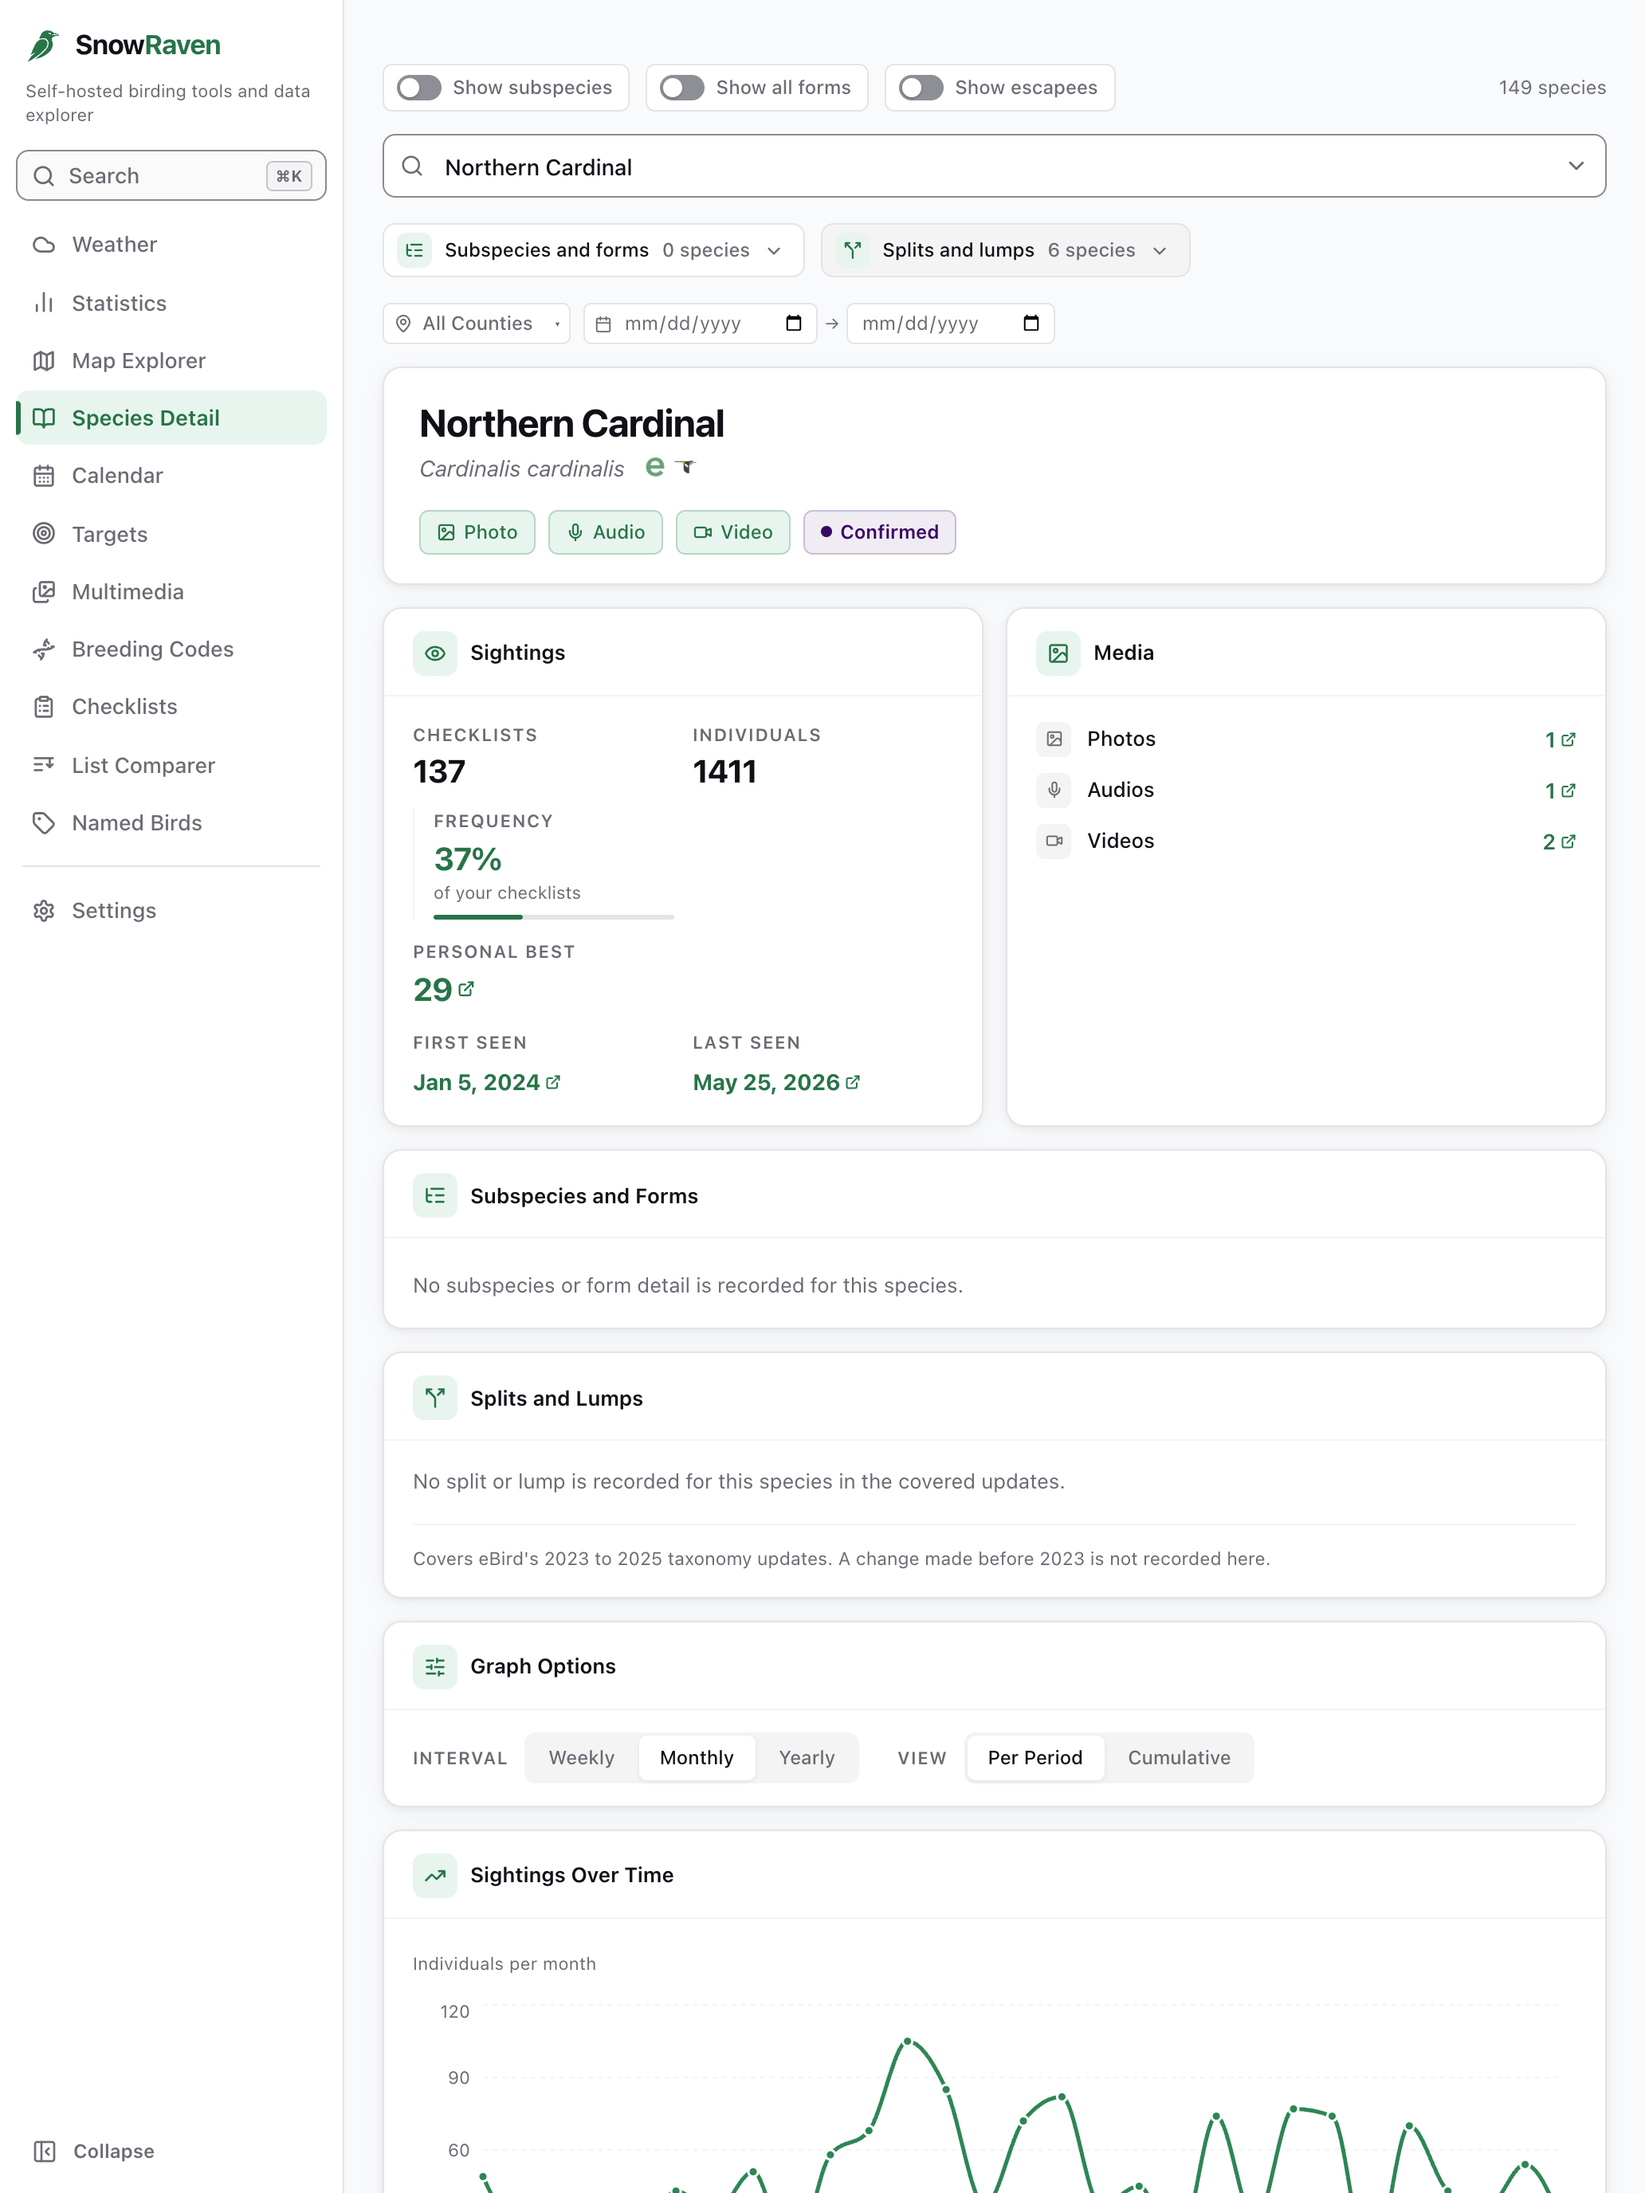
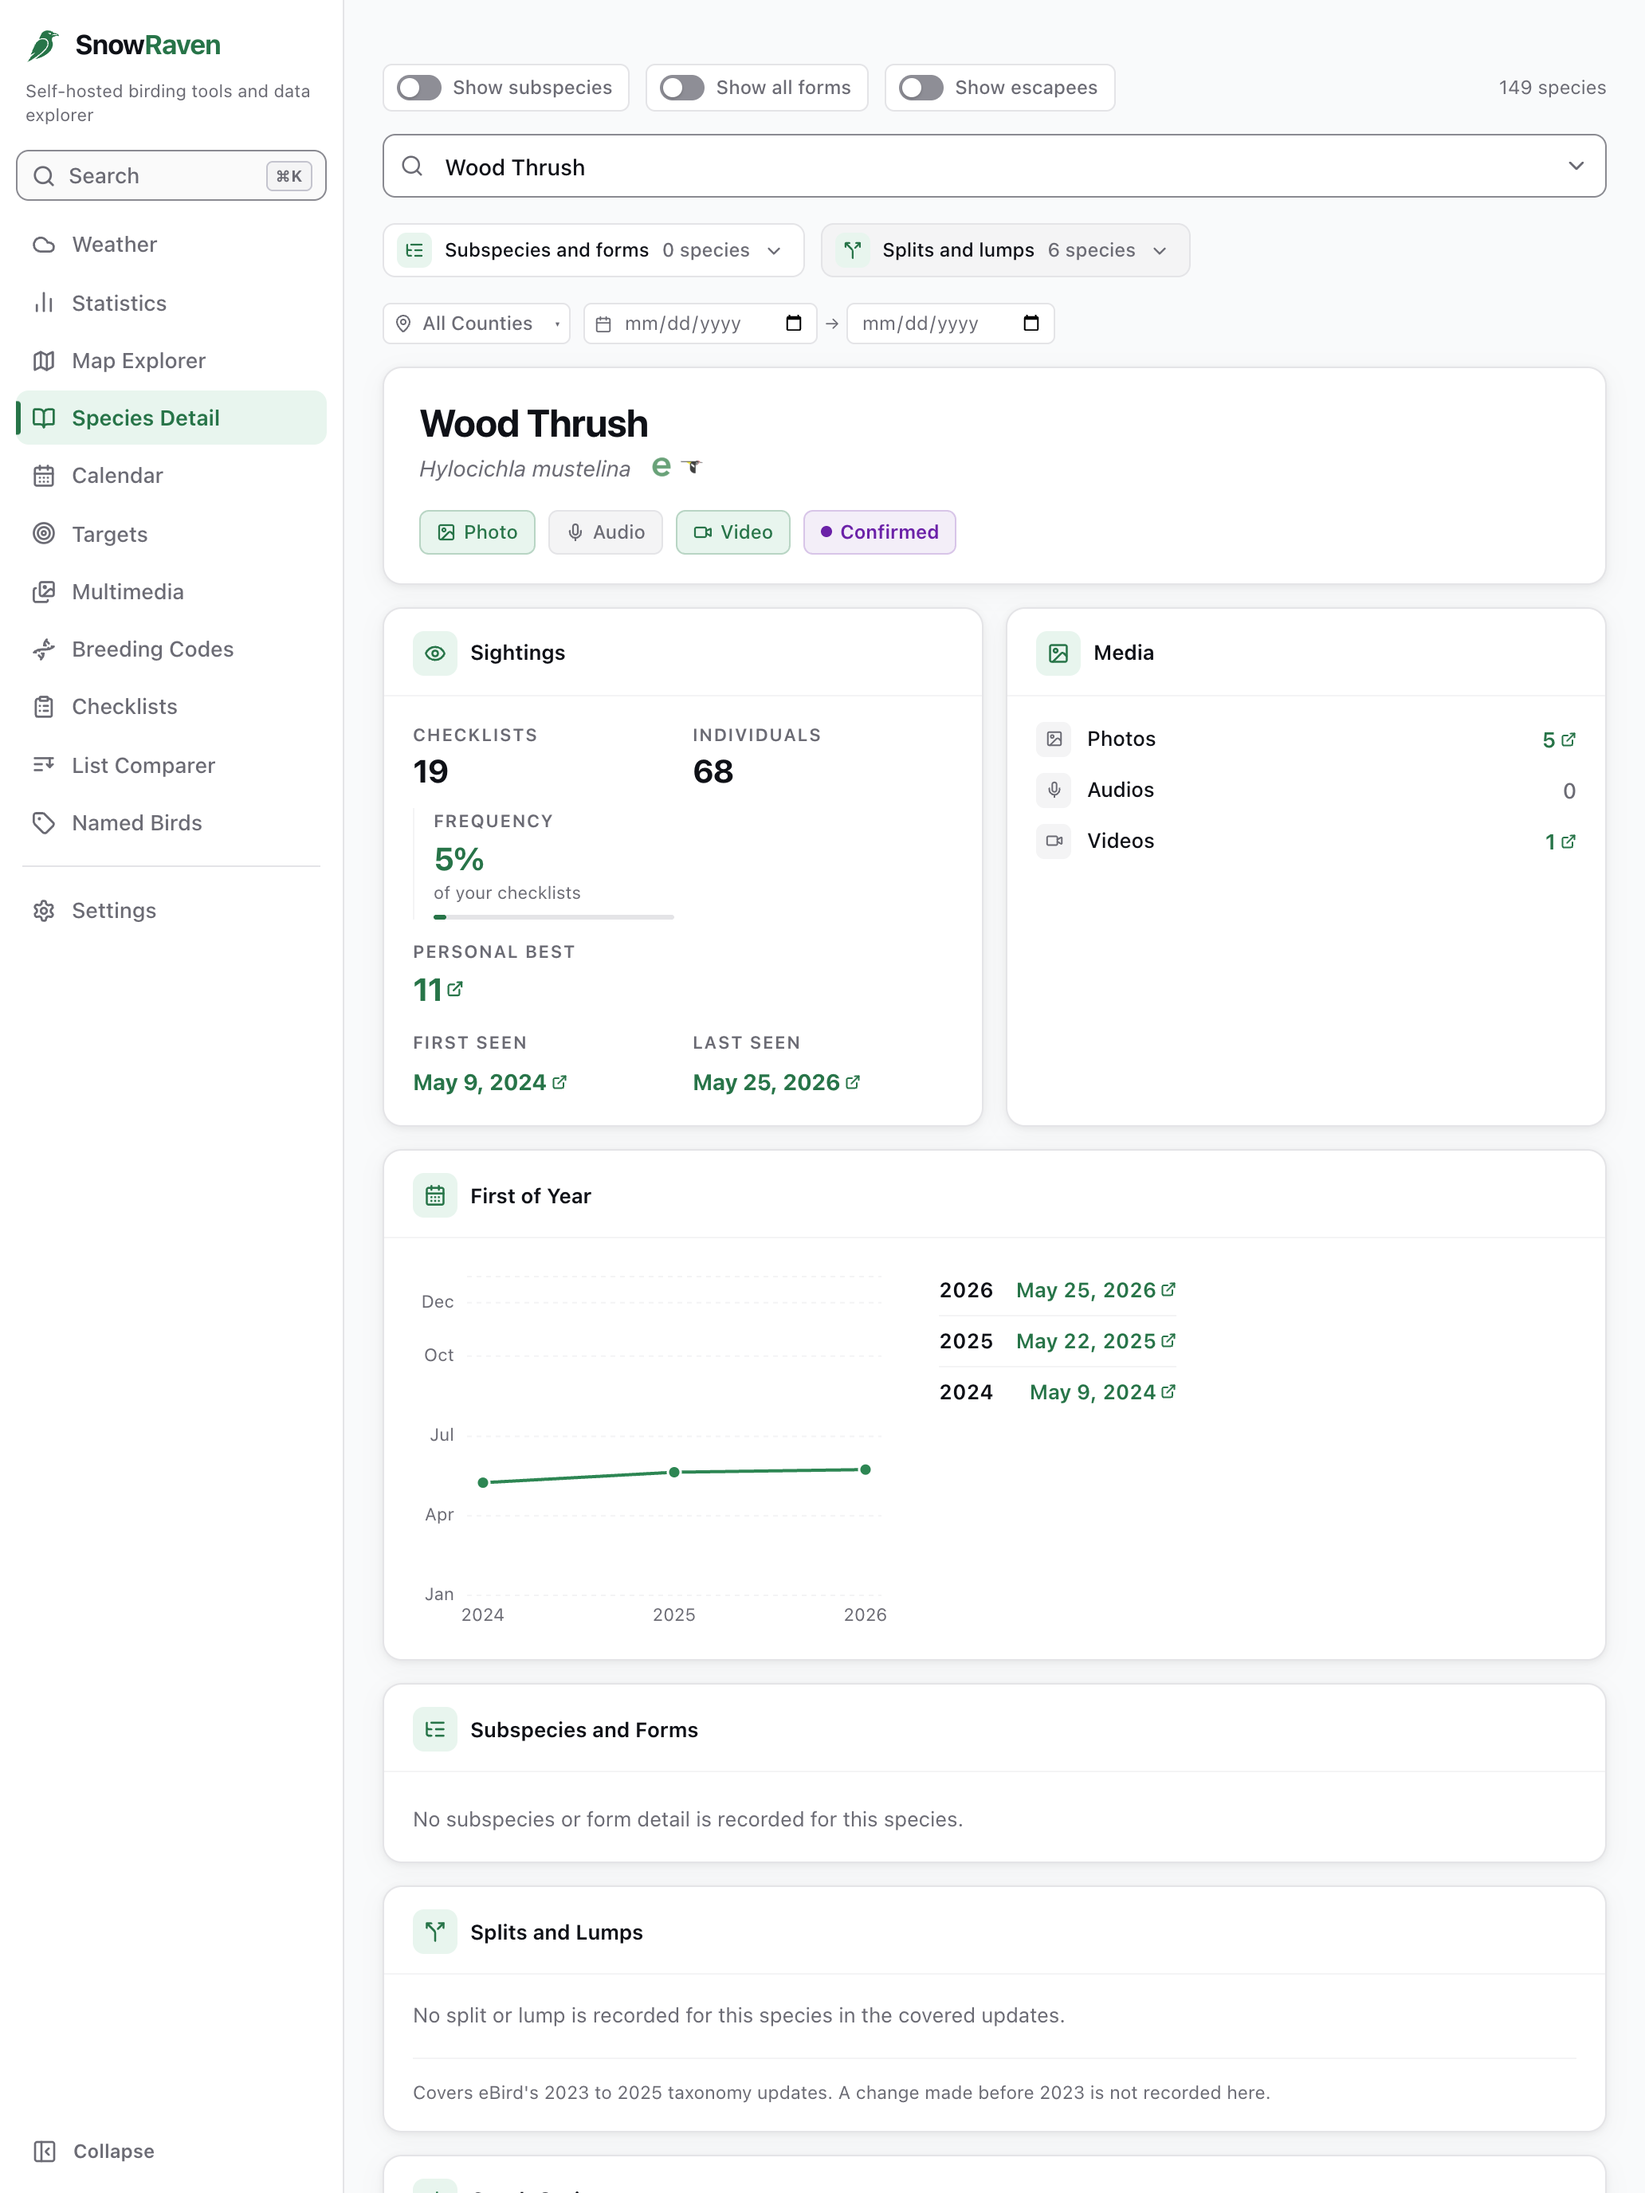
chore(appstore): Species Detail screenshot shows the First of Year card
The iPad 13 store shot 05-species-detail.png is retaken with Wood Thrush,
whose first dates fall in mid-May (2024, 2025, 2026), so the First of Year
card and its chart read as a real arrival pattern. 2064x2752, the set's
size; approved by the user. Not uploaded to App Store Connect: it goes up
with the record that carries 1.0.52, which is deferred.

The website's matching species.webp (alt frame, approved) is held back
until the user approves the one-line alt text that names the species.

Records: the approvals, the species and the alt-frame choice, the
deferral, and the approved What's New text in
pipeline/species-first-of-year/.

diff --git a/pipeline/species-first-of-year/decisions.md b/pipeline/species-first-of-year/decisions.md
@@ -88,3 +88,15 @@ The security review passed with three Informational notes, and all three are app
 - **The rule's gate now reaches the new modules.** `.claude/rules/security.md` gains `frontend/src/lib/firstOfYear*.ts` in its `paths`, because CLAUDE.md requires a build that adds a file a rule governs to extend that rule's gate in the same change; without it the rule stays correct and never loads while those files are edited. The header comments of `firstOfYear.ts` (the declared well-formed-date scan) and `firstOfYearChartGeometry.ts` (the clamped year-span loop) now each say the file is governed by that rule. No guard reads the rule's `paths` list, so nothing in the suite checks this.
 - **A year-0000 date keeps its link label.** `formatDate` refuses year 0 and returns `''` in every date format, while `isWellFormedDate` accepts `0000` (schema.md 7.1), so the row's checklist link drew with no visible text. The label is now `formatDate(r.date) || r.date`, so the raw date string fills it, and one row in `FirstOfYearSection.test.tsx` renders a `0000-01-15` row in all three formats and asserts the link text and accessible name. `firstOfYearHelpClaims.test.ts` pins the `ChecklistLink` call site's exact text, so its pattern now includes the fallback.
 - **The span clamp's cost is on record.** schema.md 7.2 now records the Auditor's measurement of the worst case (about 0.55 s for the first chart draw in jsdom, about 0.7 s per re-draw on row hover, focus or a width change) and that no code change is recommended, so the figure is a stated decision rather than something to rediscover.
+
+## D1. Shipped as 1.0.52, behind the spin's 1.0.51 (Deployer, 2026-10-04)
+
+The user confirmed the production deploy at the gate, then chose to wait for a Weft spin that was about to release; it shipped as 1.0.51 (`9e3736c`, iOS stamp `209fd30`), so this build was rebased onto it and shipped as 1.0.52 behind it, with the spin's 1.0.51 changelog entry kept verbatim below this one. The steps and their evidence are in `deployment-record.md`.
+
+## D2. Screenshots, What's New and the App Store route (user approvals, 2026-10-04)
+
+- **Species for the screenshots: Wood Thrush.** The committed capture tools photograph Northern Cardinal, whose first dates all fall in early January, so its First of Year chart is a flat line at the bottom. At the user's request the shots were retaken with a species whose first dates fall mid-year: Wood Thrush, first dates May 9, 2024, May 22, 2025 and May 25, 2026, chosen from the 43 demo species whose first date falls between April and June in every year, with media so the header and Media card are filled. The capture tools were extended only in scratch; the committed tools still select Northern Cardinal, so a later full regeneration with them would put the cardinal back (recorded as a follow-up, not changed here).
+- **iPad 13 store shot `appstore/screenshots/ipad-13/05-species-detail.png`: approved and committed**, replaced with the Wood Thrush capture (2064x2752, the set's size). The iPhone 6.9 shot ends inside the Sightings card and is unchanged. Not uploaded: it goes to App Store Connect with the record that carries 1.0.52, the whole iPad set replaced in order.
+- **Website `website/assets/shots/species.webp`: the ALT FRAME was approved** (the page scrolled so the whole First of Year card and its chart are in view; 1600x900), over the website's current fixed crop, which cuts the card below its October label. **Held, not yet committed:** its `<img>` in `website/index.html` carries the alt text "The Species Detail tab for Northern Cardinal, showing sightings, media counts, and breeding category.", which would name the wrong bird over the new image, and changing that sentence is a website copy change that needs the user's yes on the exact words. The image goes in together with the approved alt text.
+- **What's New: approved**, recorded verbatim in `whats-new.md`, with two notes there: it is not the wording this stage drafted, and its last clause ends "in two or more." with no noun.
+- **App Store route: 1.0.52 is DEFERRED** behind record `99e3f9ff` (1.0.50), which the user's decision described as waiting for review; nothing was created, retargeted, withdrawn or submitted, and the spin's 1.0.51 store leg stays with its own session. A read-only query at 2026-10-05T02:44:46Z found `99e3f9ff` already `READY_FOR_SALE` (submission `7118f6a7` COMPLETE), so the record this deferral waits on is no longer in review; 1.0.51.1 and 1.0.52.1 are `VALID` with no record of their own. The next App Store step for 1.0.52 is the user's to decide, together with the spin's 1.0.51, and is written into CLAUDE.md's App Store list in the same ship whatever it is.

diff --git a/pipeline/species-first-of-year/whats-new.md b/pipeline/species-first-of-year/whats-new.md
@@ -1,0 +1,14 @@
+# What's New: First of Year on Species Detail (1.0.52)
+
+**Status:** approved by the user on 2026-10-04, relayed by the coordinator. For the App Store version record that carries 1.0.52 (deferred: see `deployment-record.md` section 12). Not written to App Store Connect.
+
+## Approved text, verbatim
+
+First of Year on Species Detail. A new card lists the first date you reported the species in each year, each date opening its checklist on eBird, with a small chart of those first dates across the years once you have reported the species in two or more.
+
+## Notes for whoever writes it to App Store Connect
+
+- Write it byte for byte as above and read it back. It has no em dash and uses American spelling.
+- **The approval names this exact sentence, but it is not the draft this stage wrote.** The 1.0.51 deploy plan proposed "First of Year on Species Detail: see the first date you reported a species in each year, each opening its checklist on eBird, with a small chart of those dates across the years." The approved text above came from the coordinator's message. Confirm with the user that this is the version they read.
+- The approved sentence ends "in two or more." with no noun after "more"; "years" appears to have been dropped. Approved copy is not edited here; any correction needs the user's yes on the new words.
+- If the record that carries 1.0.52 also carries the spin's 1.0.51, its What's New is that release's approved text together with this one, each approved separately.
